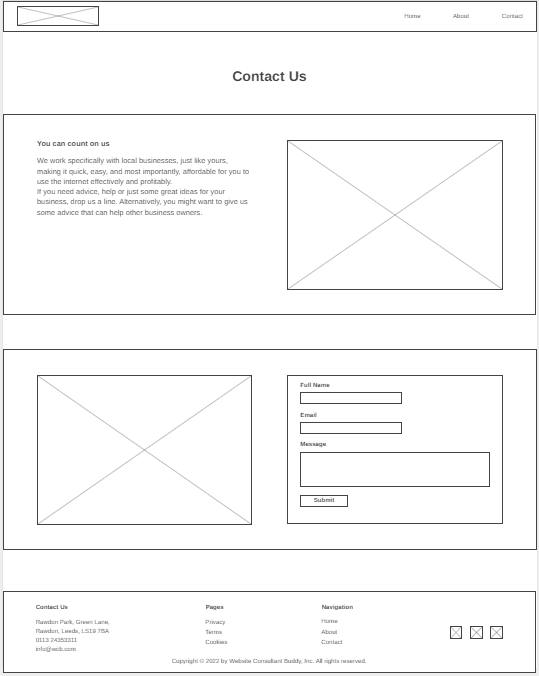
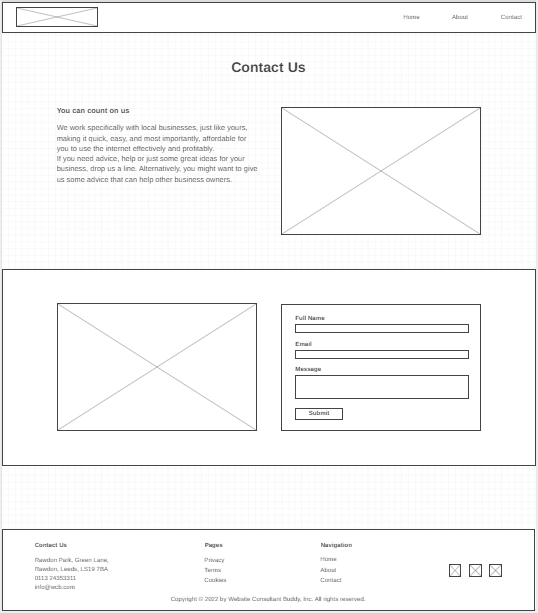
Edited contact page

diff --git a/wcb/styles/style.css b/wcb/styles/style.css
@@ -292,7 +292,7 @@ footer-logo {
 
 .footer-link:hover,
 .footer-link:active {
-  color: #555;
+  color: #555555;
 }
 
 /*************************/
@@ -314,7 +314,13 @@ footer-logo {
 /* CONTACT PAGE FORM */
 /*************************/
 .map {
-  border: 1px solid #ccc;
+  border: 1px solid #cccccc;
+}
+
+.wrapper {
+  border-radius: 5px;
+  border: 1px solid #cccccc;
+  padding: 20px;
 }
 
 /* Style inputs with type="text", select elements and textareas */
@@ -332,6 +338,10 @@ textarea {
   resize: vertical; /* Allow the user to vertically resize the textarea (not horizontally) */
 }
 
+textarea {
+  height: 100px;
+}
+
 /* Style the submit button with a specific background color etc */
 input[type="submit"] {
   background-color: #f59f00;
@@ -343,6 +353,7 @@ input[type="submit"] {
   border-radius: 4px;
   transition: all 0.3s;
   cursor: pointer;
+  margin-top: 20px;
 }
 
 /* When moving the mouse over the submit button, add a darker yello color */

diff --git a/wcb/contact.html b/wcb/contact.html
@@ -56,7 +56,8 @@
           <div class="info-img-box">
             <img src="images/map.jpg" class="info-img map" alt="map" />
           </div>
-          <div class="info-text-box">
+
+          <div class="info-text-box wrapper">
             <form action="action_page.php">
               <label for="fname">Full Name</label>
               <input
@@ -79,7 +80,6 @@
                 id="subject"
                 name="subject"
                 placeholder="Write something.."
-                style="height: 200px"
               ></textarea>
 
               <input type="submit" value="Submit" />
